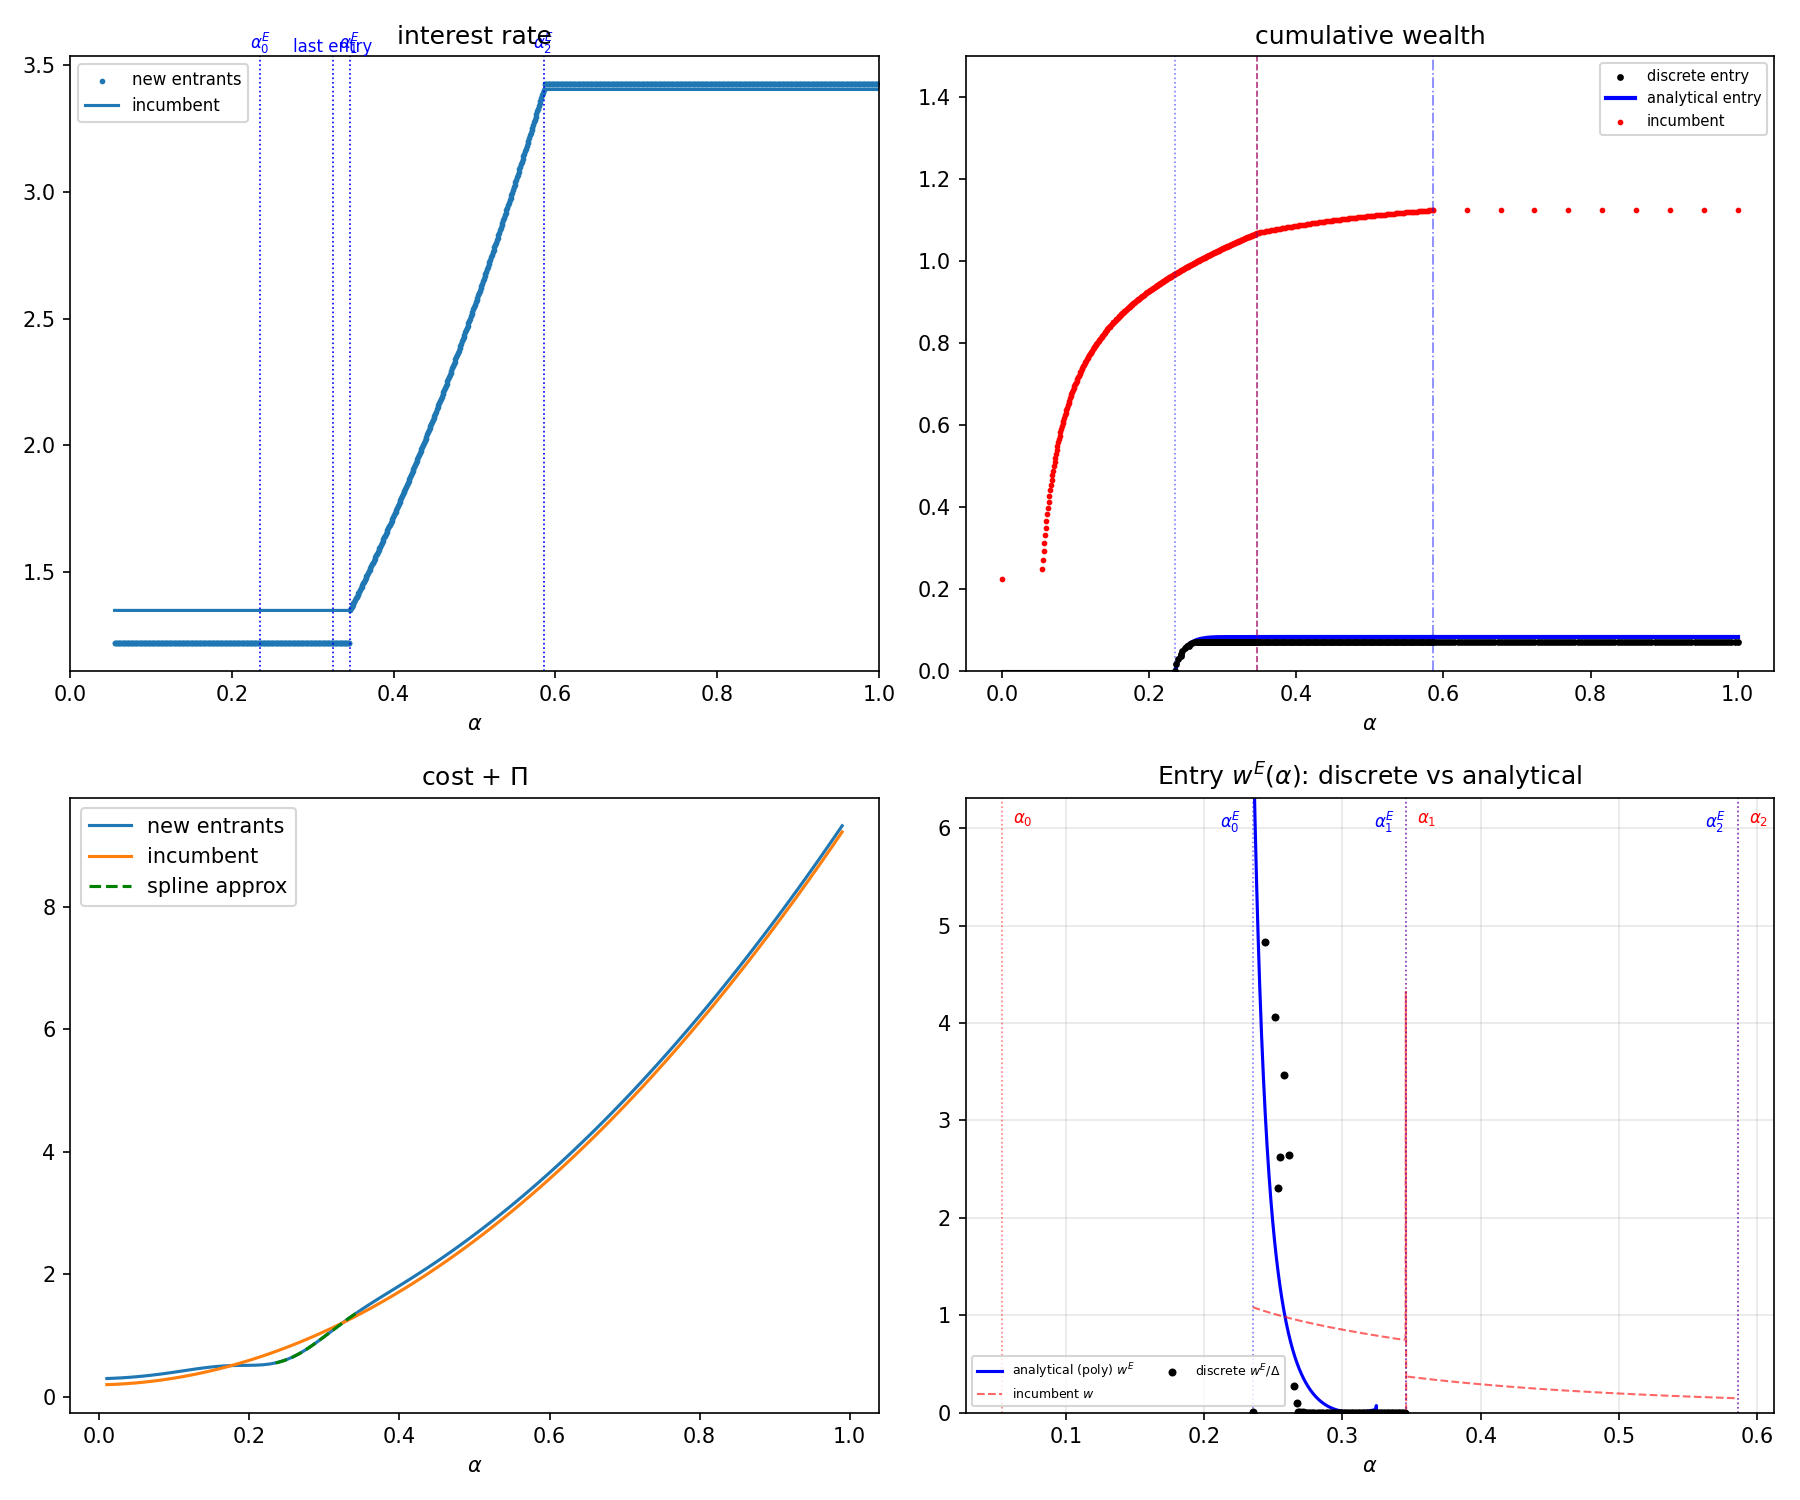
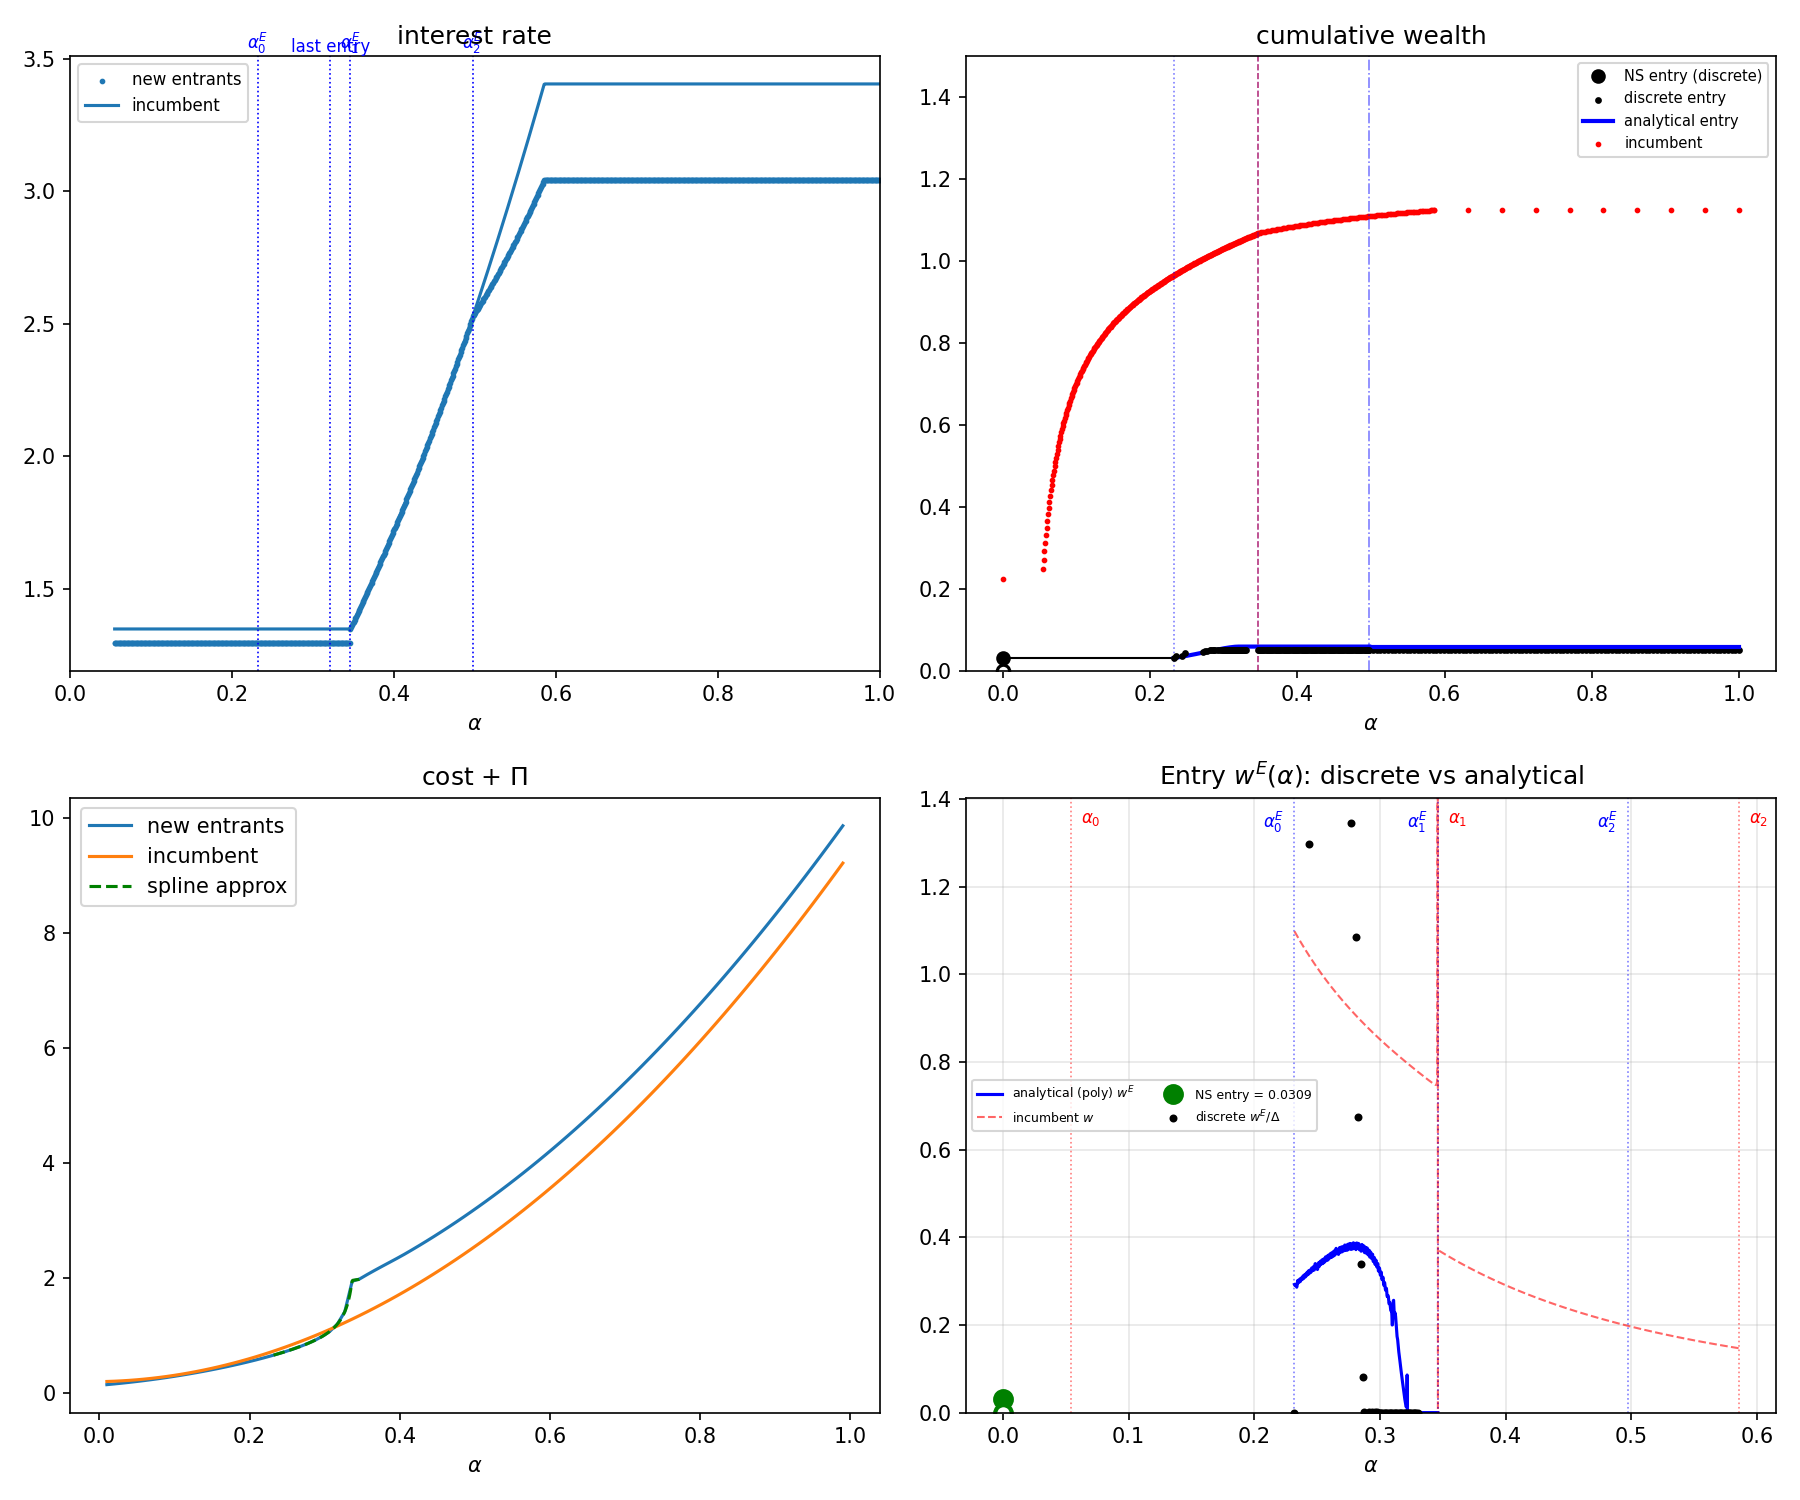
Restore legacy SP+addons for fig9a and parametrize the addon
- FIG9_OB_limited: switch back to selection_preserving with PiE=0.1,
  kappa1_distortion=-4.0 (the legacy 'smooth_entry' parameters that
  produced wide Region IIb and a visible NS rate drop).
- Add cfunE_params['addon_cap'] (default 100 = legacy maxc): caps the
  hyperbolic left piece earlier, sliding the kink toward lower alpha
  and lowering the K^E plateau without disturbing the equilibrium.
  Outcome stable down to addon_cap=10; set to 10 for fig9a (kink at
  alpha=0.27, plateau at K_inc+1.0 instead of K_inc+10).
- Replace the legacy slope-0.1 right piece with a parallel extension:
  freeze base_cost and distortion at alpha=spike_alpha, add only
  cfun(alpha)-cfun(spike). K^E now runs parallel to K_inc above the
  kink (gap ~0.65, variation <0.01 from smoothing), instead of the
  near-flat legacy tail.

diff --git a/mainE_python.py b/mainE_python.py
@@ -90,22 +90,26 @@ PARAM_CONFIGS = {
     },
     'FIG9_OB_limited': {
         'description': 'Figure 9a / fig:OB left - Open Banking, limited adoption (cost advantage at low alpha).',
-        # Clean cost_offset_smooth replacing the legacy SP+addon hack.
-        # Offset is negative at low alpha (entrant cheaper -> pooling and NS
-        # entry, rate goes down) and modestly positive at high alpha (entrant
-        # slightly above incumbent K -> no CIM entry, K^E close to K_inc).
-        # The sigmoid offset is monotone-increasing so K^E remains monotone
-        # by construction (no slope constraint needed).
+        # Legacy SP + add-ons form, restored as the starting point.
+        # K^E = γ(α)·(1 + D⁻¹((1/κ)·D((Π+1+C)/γ - 1))) - 1 - Π^E
+        #         + κ₁·α·(α-α̅)                       (distortion)
+        #         + 0.1·min(0.1·(1/(α₁-α) - 1/α₁), 100) if α<α₁  (low-α addon, spike near α₁)
+        #         + 0.1·(100 + (α-α₁))                  if α>α₁  (high-α addon)
+        # This is the parametrization that historically produced a wide Region IIb
+        # in figure 9a (α₀^E ≈ 0.22 — entrants concentrated near the top of pooling,
+        # heavy cream-skim, NS rate visibly down).  We will iterate parameters from
+        # here.
         **_DEFAULT_INC_BASELINE,
         'has_entry': True,
-        'PiE': 0.2,                  # same as Pi; NS entry advantage comes from the offset
-        'cfunE_kind': 'cost_offset_smooth',
-        'cfunE_params': {
-            'alpha_hat': 0.18,        # transition centered in lower half of pooling
-            'delta_low': 0.10,        # entrant K below incumbent K by ~0.10 at low alpha
-            'delta_high': 0.05,       # entrant K above incumbent K by 0.05 at high alpha
-            'transition_width': 0.04,
-        },
+        'PiE': 0.1,
+        'cfunE_kind': 'selection_preserving',
+        'cfunE_params': {'kappa': 1.1, 'use_smoothing': True,
+                         'use_legacy_addons': True, 'kappa1_distortion': -4.0,
+                         # Lowered from legacy 100 → kink slides from α≈0.336 to
+                         # α≈0.269 and K^E plateau drops from +10 to +1.  Outcome
+                         # (α₀^E≈0.22, Region IIb=0.088, r_NS drop=0.36) is unchanged
+                         # down to cap≈10; below that α₂^E flips above α₂.
+                         'addon_cap': 10.0},
     },
     'FIG9_OB_broad': {
         'description': 'Figure 9b / fig:OB right - Open Banking, broad adoption (cost advantage band at intermediate alpha).',
@@ -269,7 +273,8 @@ def _resolve_cfunE_mode(cfg):
         return 'simple', params
 
     if kind in ('cost_reduction_top', 'cost_reduction_low',
-                'cost_offset_smooth', 'cost_dip_gaussian'):
+                'cost_offset_smooth', 'cost_dip_gaussian',
+                'cost_exp_decay'):
         # New kinds — handled directly in cfunE, no legacy mode.
         return kind, params
 
@@ -504,10 +509,26 @@ def _build_cfunE_pchip():
     kappa = params.get('kappa', 1.1)
     use_legacy_addons = params.get('use_legacy_addons', False)
     kappa1_dist = params.get('kappa1_distortion', 0.0)
+    # spike_alpha = α at which the addon blows up.  Defaults to α₁ (legacy).
+    spike_alpha = params.get('spike_alpha', g.alpha1)
+    # addon_cap = the cap height (legacy maxc=100, → plateau at 0.1·100 = 10).
+    # Lowering it: keeps the left hyperbolic 1/(s-α) anchored, but cuts it off
+    # sooner (kink slides left) and lowers the right-side plateau (entrants no
+    # longer locked out at high α).
+    maxc = params.get('addon_cap', 100.0)
 
     alpha1 = g.alpha1
-    maxc = 100.0
     alphabar = (g.alpha0 + g.alpha1) / 2.0
+
+    # Pre-compute base_cost and distortion at α = spike_alpha for the
+    # "parallel right-piece" extension.  For α > spike_alpha we freeze these
+    # at their α=s values and add only cfun(α)-cfun(s), so K^E rises in
+    # lockstep with K_inc on the right (parallel to the green curve).
+    gu_s = _scalar(gammaupdate2(spike_alpha, g.alpha0, g.rp))
+    inner_r_s = (g.Pi + 1 + _scalar(cfun(spike_alpha))) / gu_s - 1
+    base_at_s = gu_s * (1 + _scalar(dfuninv(kappa * _scalar(dfun(inner_r_s))))) - (1 + g.PiE)
+    distort_at_s = kappa1_dist * spike_alpha * (spike_alpha - alphabar)
+    cfun_at_s = _scalar(cfun(spike_alpha))
 
     # Evaluate each component separately
     base_costs = np.zeros(len(grid))
@@ -515,16 +536,22 @@ def _build_cfunE_pchip():
     addons = np.zeros(len(grid))
 
     for i, a in enumerate(grid):
+        if use_legacy_addons and a > spike_alpha:
+            # Parallel extension: freeze base+distortion at α=s, addon supplies
+            # the cap height plus K_inc-parallel rise.
+            base_costs[i] = base_at_s
+            distortions[i] = distort_at_s
+            addons[i] = 0.1 * maxc + (_scalar(cfun(a)) - cfun_at_s)
+            continue
+
         gu = _scalar(gammaupdate2(a, g.alpha0, g.rp))
         inner_r = (g.Pi + 1 + _scalar(cfun(a))) / gu - 1
         base_costs[i] = gu * (1 + _scalar(dfuninv(kappa * _scalar(dfun(inner_r))))) - (1 + g.PiE)
         if use_legacy_addons:
             distortions[i] = kappa1_dist * a * (a - alphabar)
-            if a < alpha1:
-                addons[i] = 0.1 * min(0.1 * (1.0 / max(alpha1 - a, 1e-6) - 1.0 / alpha1), maxc)
-            elif a > alpha1:
-                addons[i] = 0.1 * (maxc + (a - alpha1))
-            else:
+            if a < spike_alpha:
+                addons[i] = 0.1 * min(0.1 * (1.0 / max(spike_alpha - a, 1e-6) - 1.0 / spike_alpha), maxc)
+            else:  # a == spike_alpha
                 addons[i] = 0.1 * maxc
 
     # Smooth base_cost: this is the noisy component (from discrete omega grid).
@@ -602,6 +629,26 @@ def cfunE(alpha):
         ca = c_inc + offset
         return _scalar(ca[0]) if len(alpha_arr) == 1 else ca
 
+    # --- cost_exp_decay: exponential-decay offset.
+    # C^E(α) = C(α) + delta_baseline - delta_low · exp(-α / tau).
+    # At α = 0: offset = delta_baseline - delta_low (deeply negative if
+    #   delta_low > delta_baseline).
+    # At α → ∞: offset → delta_baseline (mild positive cushion).
+    # The offset is monotonically *increasing* in α, so K^E = K_inc + offset
+    # is automatically monotone regardless of how steep the discount is.
+    # This decouples the deep discount needed at α=0 (to drive NS entry and
+    # widen Region IIb) from the slope constraint that bites cost_offset_smooth
+    # at low α.
+    if mode == 'cost_exp_decay':
+        alpha_arr = np.atleast_1d(np.asarray(alpha, dtype=float))
+        delta_low = params['delta_low']
+        tau = params['tau']
+        delta_baseline = params.get('delta_baseline', 0.0)
+        c_inc = np.array([_scalar(cfun(a)) for a in alpha_arr])
+        offset = delta_baseline - delta_low * np.exp(-alpha_arr / tau)
+        ca = c_inc + offset
+        return _scalar(ca[0]) if len(alpha_arr) == 1 else ca
+
     # --- cost_dip_gaussian: a Gaussian-shaped cost ADVANTAGE band centered at
     # alpha_center, with a baseline disadvantage delta_baseline elsewhere.
     # C^E(α) = C(α) + delta_baseline - delta_dip · exp(-(α-α_c)²/(2σ²))
@@ -646,12 +693,28 @@ def cfunE(alpha):
     kappa = params.get('kappa', 1.1)
     use_legacy_addons = params.get('use_legacy_addons', False)
     kappa1_dist = params.get('kappa1_distortion', 0.0)
-    maxa = g.alpha1
-    maxc = 100.0
+    # spike_alpha = α at which the addon blows up.  Defaults to α₁ (legacy).
+    maxa = params.get('spike_alpha', g.alpha1)
+    # addon_cap = cap height — see _build_cfunE_smooth for explanation.
+    maxc = params.get('addon_cap', 100.0)
     alphabar = (g.alpha0 + g.alpha1) / 2.0
+
+    # Pre-compute base + distortion at α = maxa for the parallel right-piece.
+    if use_legacy_addons:
+        gu_s = _scalar(gammaupdate2(maxa, g.alpha0, g.rp))
+        inner_r_s = (g.Pi + 1 + _scalar(cfun(maxa))) / gu_s - 1
+        base_at_s = gu_s * (1 + _scalar(dfuninv(kappa * _scalar(dfun(inner_r_s))))) - (1 + g.PiE)
+        distort_at_s = kappa1_dist * maxa * (maxa - alphabar)
+        cfun_at_s = _scalar(cfun(maxa))
 
     for i in range(len(alpha)):
         a = alpha[i]
+
+        if use_legacy_addons and a > maxa:
+            # Parallel extension: K^E(α) = K^E(s) + (cfun(α) - cfun(s)).
+            ca[i] = base_at_s + distort_at_s + 0.1 * maxc + (_scalar(cfun(a)) - cfun_at_s)
+            continue
+
         gu = gammaupdate2(a, g.alpha0, g.rp)
         gu = _scalar(gu)
 
@@ -666,9 +729,9 @@ def cfunE(alpha):
         if use_legacy_addons:
             distortion = kappa1_dist * a * (a - alphabar)
             if a < maxa:
-                addon = 0.1 * min(0.1 * (1.0 / (maxa - a) - 1.0 / maxa), maxc)
-            elif a > maxa:
-                addon = 0.1 * (maxc + (a - maxa))
+                addon = 0.1 * min(0.1 * (1.0 / max(maxa - a, 1e-6) - 1.0 / maxa), maxc)
+            else:  # a == maxa
+                addon = 0.1 * maxc
 
         ca[i] = base_cost + distortion + addon
 
